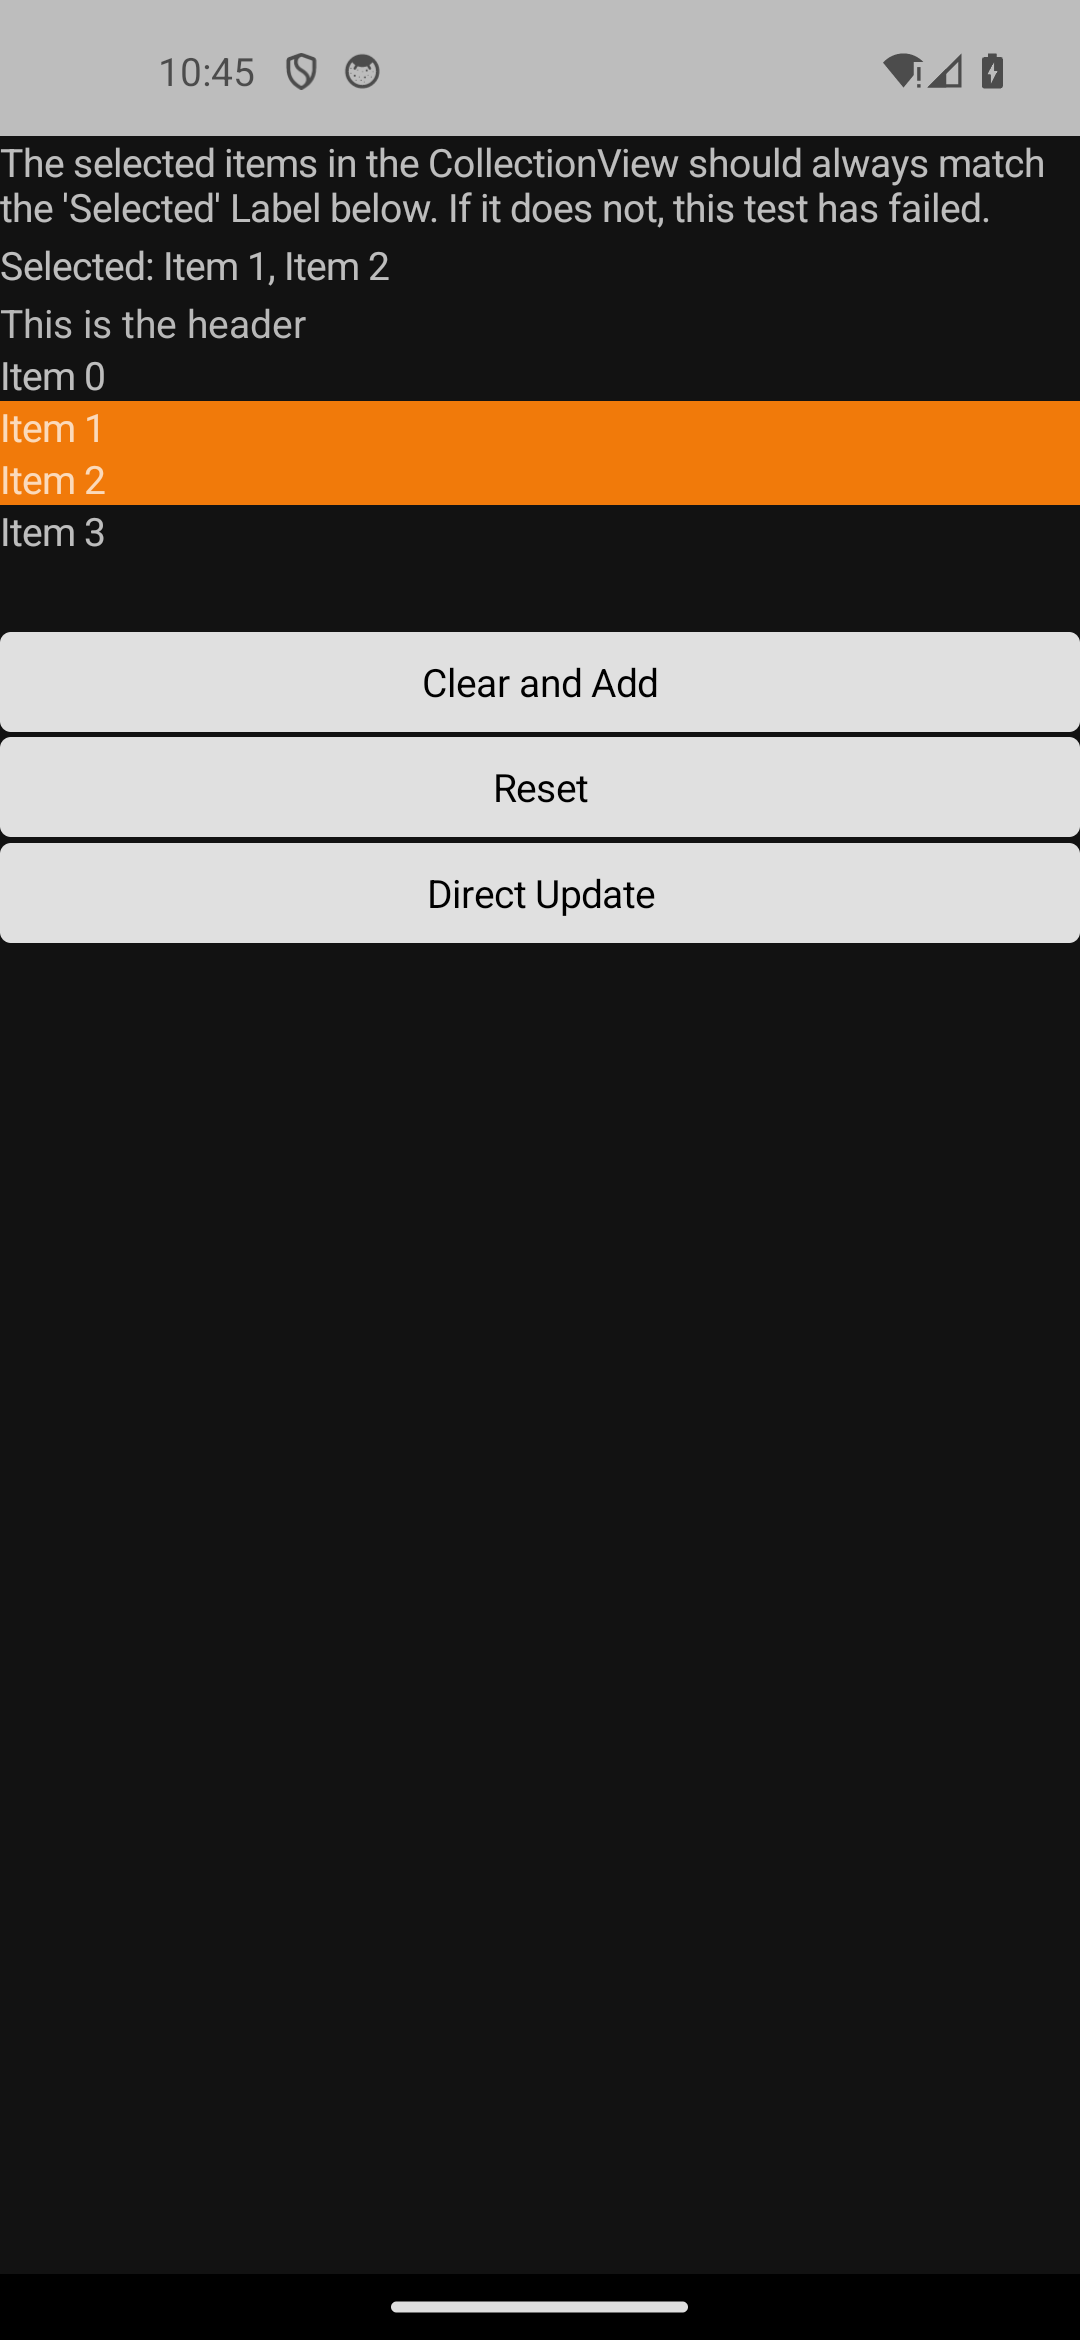
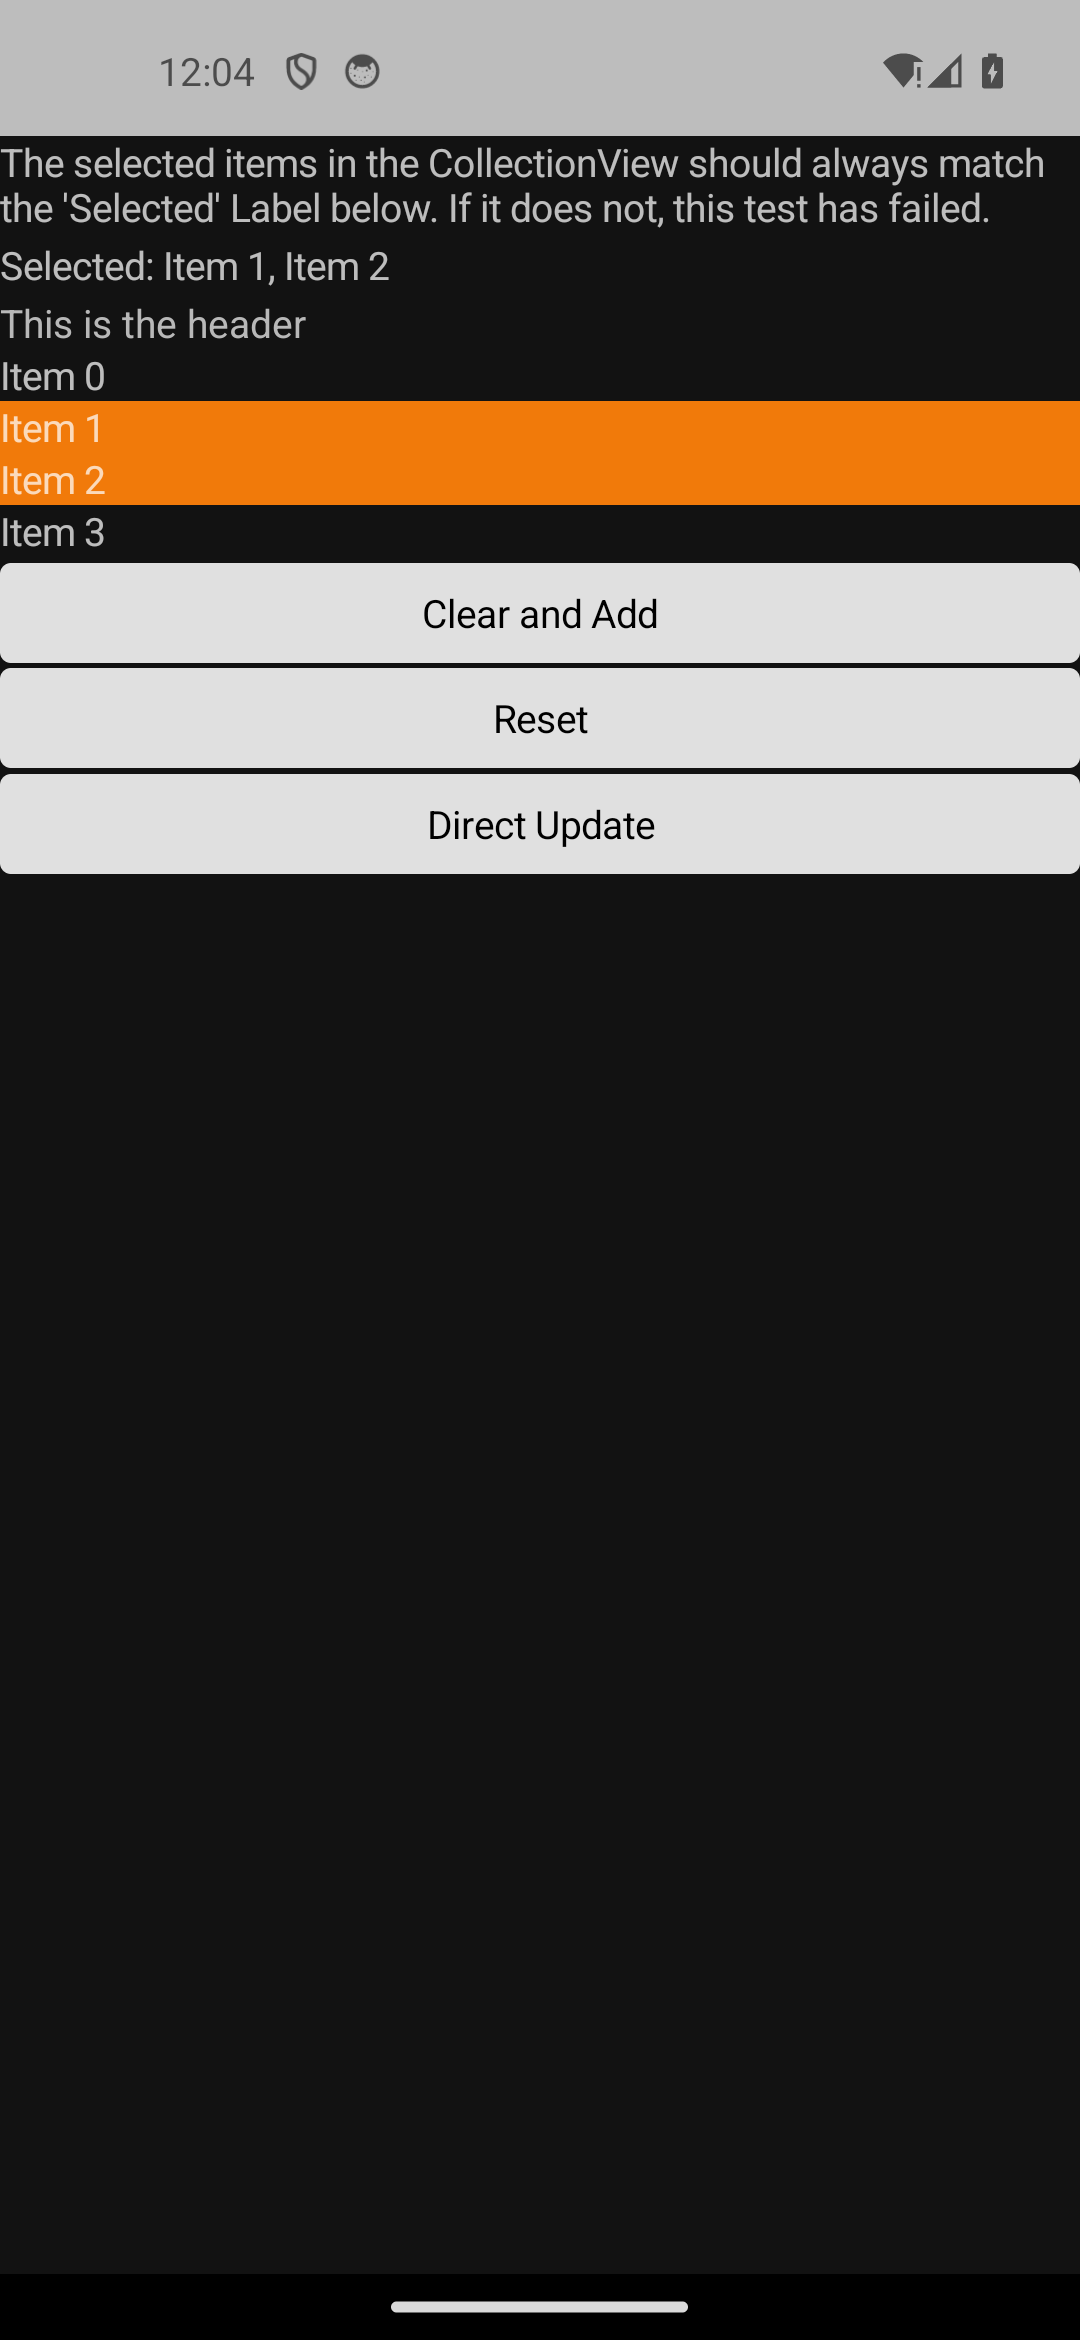
fix(android/parity): CV measure floors only on failure (not as a seed) -> multiple_bound_selection GREEN
native_content_size's measure_element SEEDED main_px at the k_min_row_extent floor (24dp) before
maxing with the real measure, so every naturally-short row (a bare 14sp Label measures ~19dp)
was rounded UP to 24dp — over-reporting the CV's desired height by ~5dp/row. arrange_native
renders the TRUE ~19dp rows (it floors only when measured==0), so the parent VerticalStackLayout
was handed a too-tall CV and left an empty gap below the list, pushing the following buttons down
(~one floor-delta per row). Fix: seed main_px at 0 and apply the k_min_row_extent floor ONLY as a
fallback for a total measure failure (measured<=0) AT THE END — mirroring arrange_native's
, making the measure pass byte-consistent with the render.

Diagnosed by instrumenting native_content_size + arrange_native (android/log.h, since removed):
measure and arrange both emit 52px/row in BOTH themes; the earlier 'dark measure-failure' was a
stale batch-capture artifact, not real. Recaptured all 41 shared-XAML CollectionView board pages
(both themes, both columns): multiple_bound_selection cpp yellow->GREEN (Light SSIM 1.0000/0.00%,
Dark 0.9999/0.00%, was 0.9556/0.9002), and the other 40 CV pages held — 0 regressions. Board:
cpp 145->146 green / 24 yellow / 2 red.

Note: multiple_bound_selection XAML column stays yellow — its loader-built cells measure 0 OFF-TREE
in measure_element (they render fine on-tree but the off-tree realize doesn't measure), so they hit
[…]

Changed region(s): [[0.0, 0.2184, 1.0, 0.4056]]

diff --git a/port/cpp/src/platform/android/collection_view_handler.cpp b/port/cpp/src/platform/android/collection_view_handler.cpp
@@ -1432,12 +1432,17 @@ namespace maui::controls
         auto* container = dynamic_cast<maui::core::bindable_object*>(view);
 
         // Measure one element (template content > default text mirror) OFF-TREE and return its main-axis dp
-        // extent, floored to the k_min_row_extent so a row never collapses — the exact per-column measure
-        // arrange_native runs, minus the hosting (add_and_frame). `cross_dp`/`cross_px` are the element's
-        // cross-axis constraint (a column width for an item, the full viewport width for a supplemental).
+        // extent — the exact per-column measure arrange_native runs, minus the hosting (add_and_frame).
+        // `cross_dp`/`cross_px` are the element's cross-axis constraint (a column width for an item, the full
+        // viewport width for a supplemental). k_min_row_extent is a FALLBACK for a total measure failure (0)
+        // applied AT THE END (below), NOT a starting seed: seeding at the floor would round every naturally-
+        // short row (a bare 14sp Label measures ~19dp) UP to 24dp, over-reporting the CV's desired height by
+        // ~5dp/row, while arrange_native (row_extent_px, floor only when measured==0) renders the true ~19dp
+        // rows — the parent VerticalStackLayout then leaves an empty gap below the CV (multiple_bound_selection
+        // / items / cv_visual_states pushed ~one floor-delta per row down). Seed 0; floor only on failure.
         auto measure_element = [&](const std::shared_ptr<data_template>& tmpl, const boxed_item& value, double cross_dp,
                                    jint cross_px) -> double {
-            jint main_px = to_pixels(k_min_row_extent, density);
+            jint main_px = 0;
             const std::shared_ptr<data_template> resolved =
                 tmpl ? resolve_item_template(tmpl, value, container) : nullptr;
             jobject native = nullptr;
@@ -1463,6 +1468,12 @@ namespace maui::controls
                 main_px = std::max(main_px, measure_main_extent(env, native, cross_px, /*vertical=*/true));
             }
             // `realized` (and its off-tree native view) is dropped here — never hosted, never retained.
+            // Floor ONLY a total measure failure (0) so a row can't collapse — mirrors arrange_native's
+            // `measured_px > 0 ? measured_px : floor`, keeping this measure pass byte-consistent with render.
+            if (main_px <= 0)
+            {
+                main_px = to_pixels(k_min_row_extent, density);
+            }
             return static_cast<double>(main_px) / static_cast<double>(density);
         };
 

diff --git a/port/cpp/docs/comparison/README.md b/port/cpp/docs/comparison/README.md
@@ -5205,8 +5205,8 @@ Real .NET MAUI vs the C++ port vs the compile-time-XAML gallery, captured on the
 
 | Classification | Pixel-Perfect Score — C++ (C1/C3) | Pixel-Perfect Score — C++ &amp; XAML (C2/C4) |
 | --- | --- | --- |
-| 🟢 Match | 145 | 145 |
-| 🟡 Minor | 25 | 25 |
+| 🟢 Match | 146 | 145 |
+| 🟡 Minor | 24 | 25 |
 | 🔴 Major | 2 | 2 |
 | ⬛ Blank | 0 | 0 |
 | ⏳ Unreviewed | 0 | 0 |
@@ -5250,7 +5250,7 @@ ports AdaptiveCollectionView.xaml (+ .xaml.cs) (Maui.Controls.Sample.Pages.Colle
 
 #### 🟢 Pixel-Perfect Score — C++ (C1/C3)
 
-Light: SSIM 0.9976, 0.14% pixels differ · Dark: SSIM 0.9976, 0.16% pixels differ
+Light: SSIM 0.9977, 0.14% pixels differ · Dark: SSIM 0.9976, 0.16% pixels differ
 
 #### 🟢 Pixel-Perfect Score — C++ &amp; XAML (C2/C4)
 
@@ -6330,7 +6330,7 @@ ports HeaderFooterView.xaml (+ .xaml.cs) of the C# CollectionView gallery (Colle
 
 #### 🟢 Pixel-Perfect Score — C++ (C1/C3)
 
-Light: SSIM 1.0000, 0.00% pixels differ · Dark: SSIM 1.0000, 0.00% pixels differ
+Light: SSIM 0.9999, 0.00% pixels differ · Dark: SSIM 1.0000, 0.00% pixels differ
 
 #### 🟢 Pixel-Perfect Score — C++ &amp; XAML (C2/C4)
 
@@ -6801,16 +6801,16 @@ Light: SSIM 1.0000, 0.00% pixels differ · Dark: SSIM 1.0000, 0.00% pixels diffe
 
 Light: SSIM 1.0000, 0.00% pixels differ · Dark: SSIM 1.0000, 0.00% pixels differ
 
-### 107. Multiple Bound Selection — 🟡/🟡
+### 107. Multiple Bound Selection — 🟢/🟡
 <sub>multiple_bound_selection</sub>
 
 <table><tr><th></th><th>MAUI</th><th>C++</th><th>C++ &amp; XAML</th></tr><tr><th>Light</th><td><img width="300px" src="captures/android/maui/multiple_bound_selection_light.png" /></td><td><img width="300px" src="captures/android/cpp/multiple_bound_selection_light.png" /></td><td><img width="300px" src="captures/android/xaml/multiple_bound_selection_light.png" /></td></tr><tr><th>Dark</th><td><img width="300px" src="captures/android/maui/multiple_bound_selection_dark.png" /></td><td><img width="300px" src="captures/android/cpp/multiple_bound_selection_dark.png" /></td><td><img width="300px" src="captures/android/xaml/multiple_bound_selection_dark.png" /></td></tr></table>
 
 ports MultipleBoundSelection.xaml (+ .xaml.cs) (Maui.Controls.Sample.Pages.CollectionViewGalleries.SelectionGalleries.MultipleBoundSelection)
 
-#### 🟡 Pixel-Perfect Score — C++ (C1/C3)
+#### 🟢 Pixel-Perfect Score — C++ (C1/C3)
 
-Light: SSIM 0.9556, 7.26% pixels differ · Dark: SSIM 0.9002, 7.44% pixels differ
+Light: SSIM 1.0000, 0.00% pixels differ · Dark: SSIM 0.9999, 0.00% pixels differ
 
 #### 🟡 Pixel-Perfect Score — C++ &amp; XAML (C2/C4)
 
@@ -7215,7 +7215,7 @@ ports ScrollToGalleries/ScrollToGroup.xaml (+ .xaml.cs) of the C# CollectionView
 
 #### 🟢 Pixel-Perfect Score — C++ (C1/C3)
 
-Light: SSIM 0.9999, 0.01% pixels differ · Dark: SSIM 0.9999, 0.00% pixels differ
+Light: SSIM 1.0000, 0.01% pixels differ · Dark: SSIM 0.9999, 0.00% pixels differ
 
 #### 🟢 Pixel-Perfect Score — C++ &amp; XAML (C2/C4)
 
